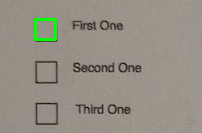
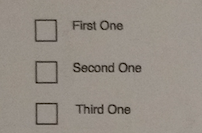
Add sheet with answers.

Changed region(s): [[0.1485, 0.1203, 0.297, 0.3308]]

diff --git a/textRegions.py b/textRegions.py
@@ -3,21 +3,29 @@ import cv2
 import numpy as np
 
 def trocki():
-    img = cv2.imread('answers.png')
+    img = cv2.imread('answ.jpeg')
     gray = cv2.cvtColor(img, cv2.COLOR_BGR2GRAY)
-    mser = cv2.MSER_create(_max_area=120)
+    mser = cv2.MSER_create()
     vis = img.copy()
     regions, bboxes = mser.detectRegions(gray)
-    # hulls = [cv2.convexHull(p.reshape(-1, 1, 2)) for p in regions]
-    # cv2.polylines(vis, hulls, 1, (0, 255, 0))
-    xmin = bboxes[:, 0]
-    ymin = bboxes[:, 1]
 
-    smallestx = int(round(min(xmin), 0))
-    smallesty = int(round(min(ymin), 0))
+    hulls = [cv2.convexHull(p.reshape(-1, 1, 2)) for p in regions]
+    cv2.polylines(vis, hulls, 1, (0, 255, 0))
 
-    cv2.rectangle(vis, (smallestx, smallesty), (smallestx + 20, smallesty + 20), (0, 255, 0), 2)
-    cv2.imwrite("answers_result.png", vis)
+    # number = 0
+    # font = cv2.FONT_HERSHEY_SIMPLEX
+    # for h in hulls:
+    #     cv2.putText(vis, str(number), tuple(h[0][0]), font, 1, (255, 255, 255), 1, cv2.LINE_AA)
+    #     number = number + 1
+
+    # xmin = bboxes[:, 0]
+    # ymin = bboxes[:, 1]
+    # cv2.contourArea(regions[0])
+    # startx = int(round(min(xmin), 0))
+    # starty = int(round(min(ymin), 0))
+    # cv2.rectangle(vis, (smallestx, smallesty), (smallestx + 20, smallesty + 20), (0, 255, 0), 2)
+
+    cv2.imwrite("answ.png", vis)
 
 def barber():
     img = cv2.imread('sc.jpeg')
